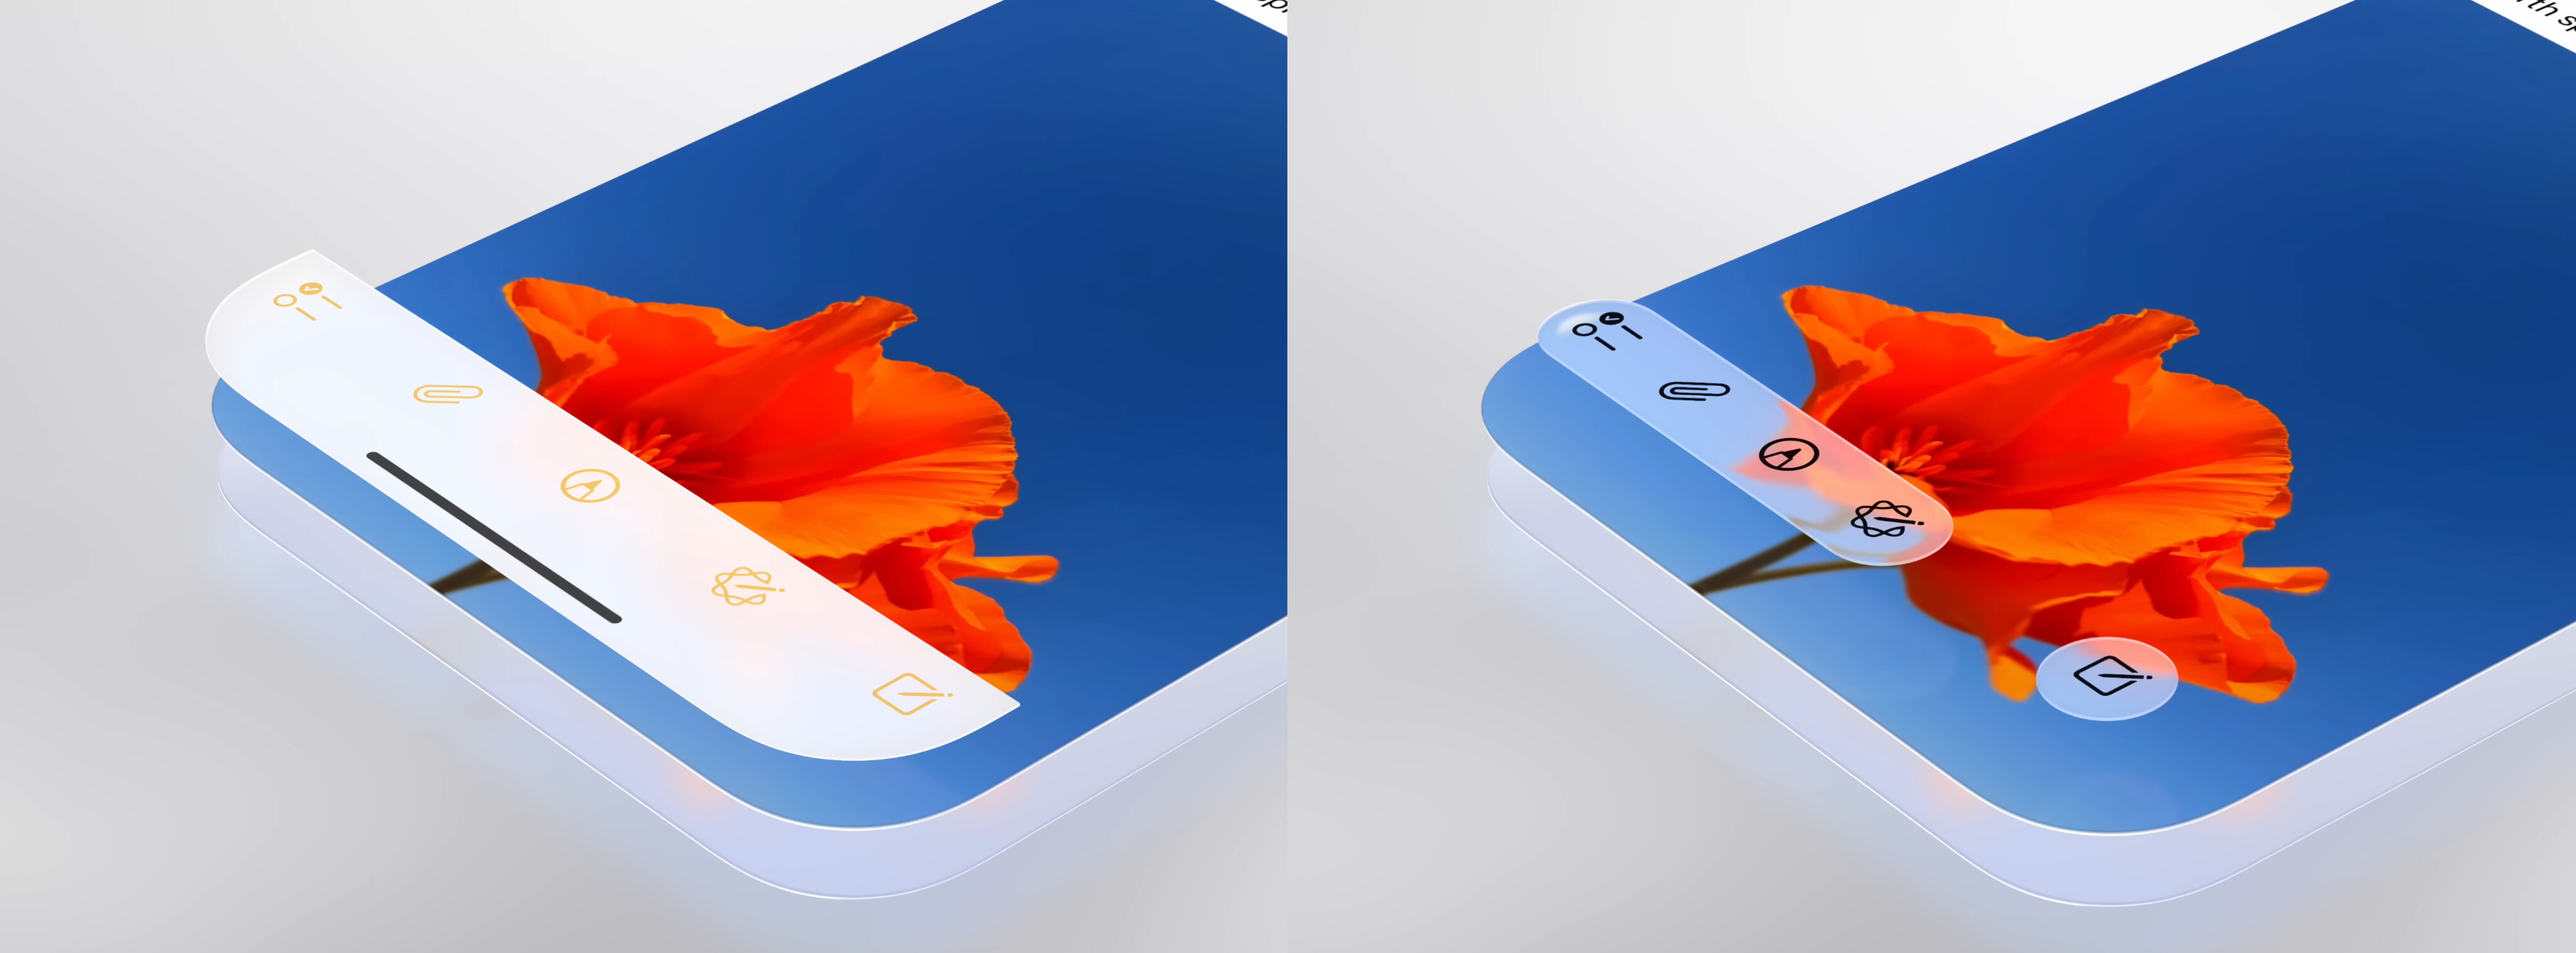
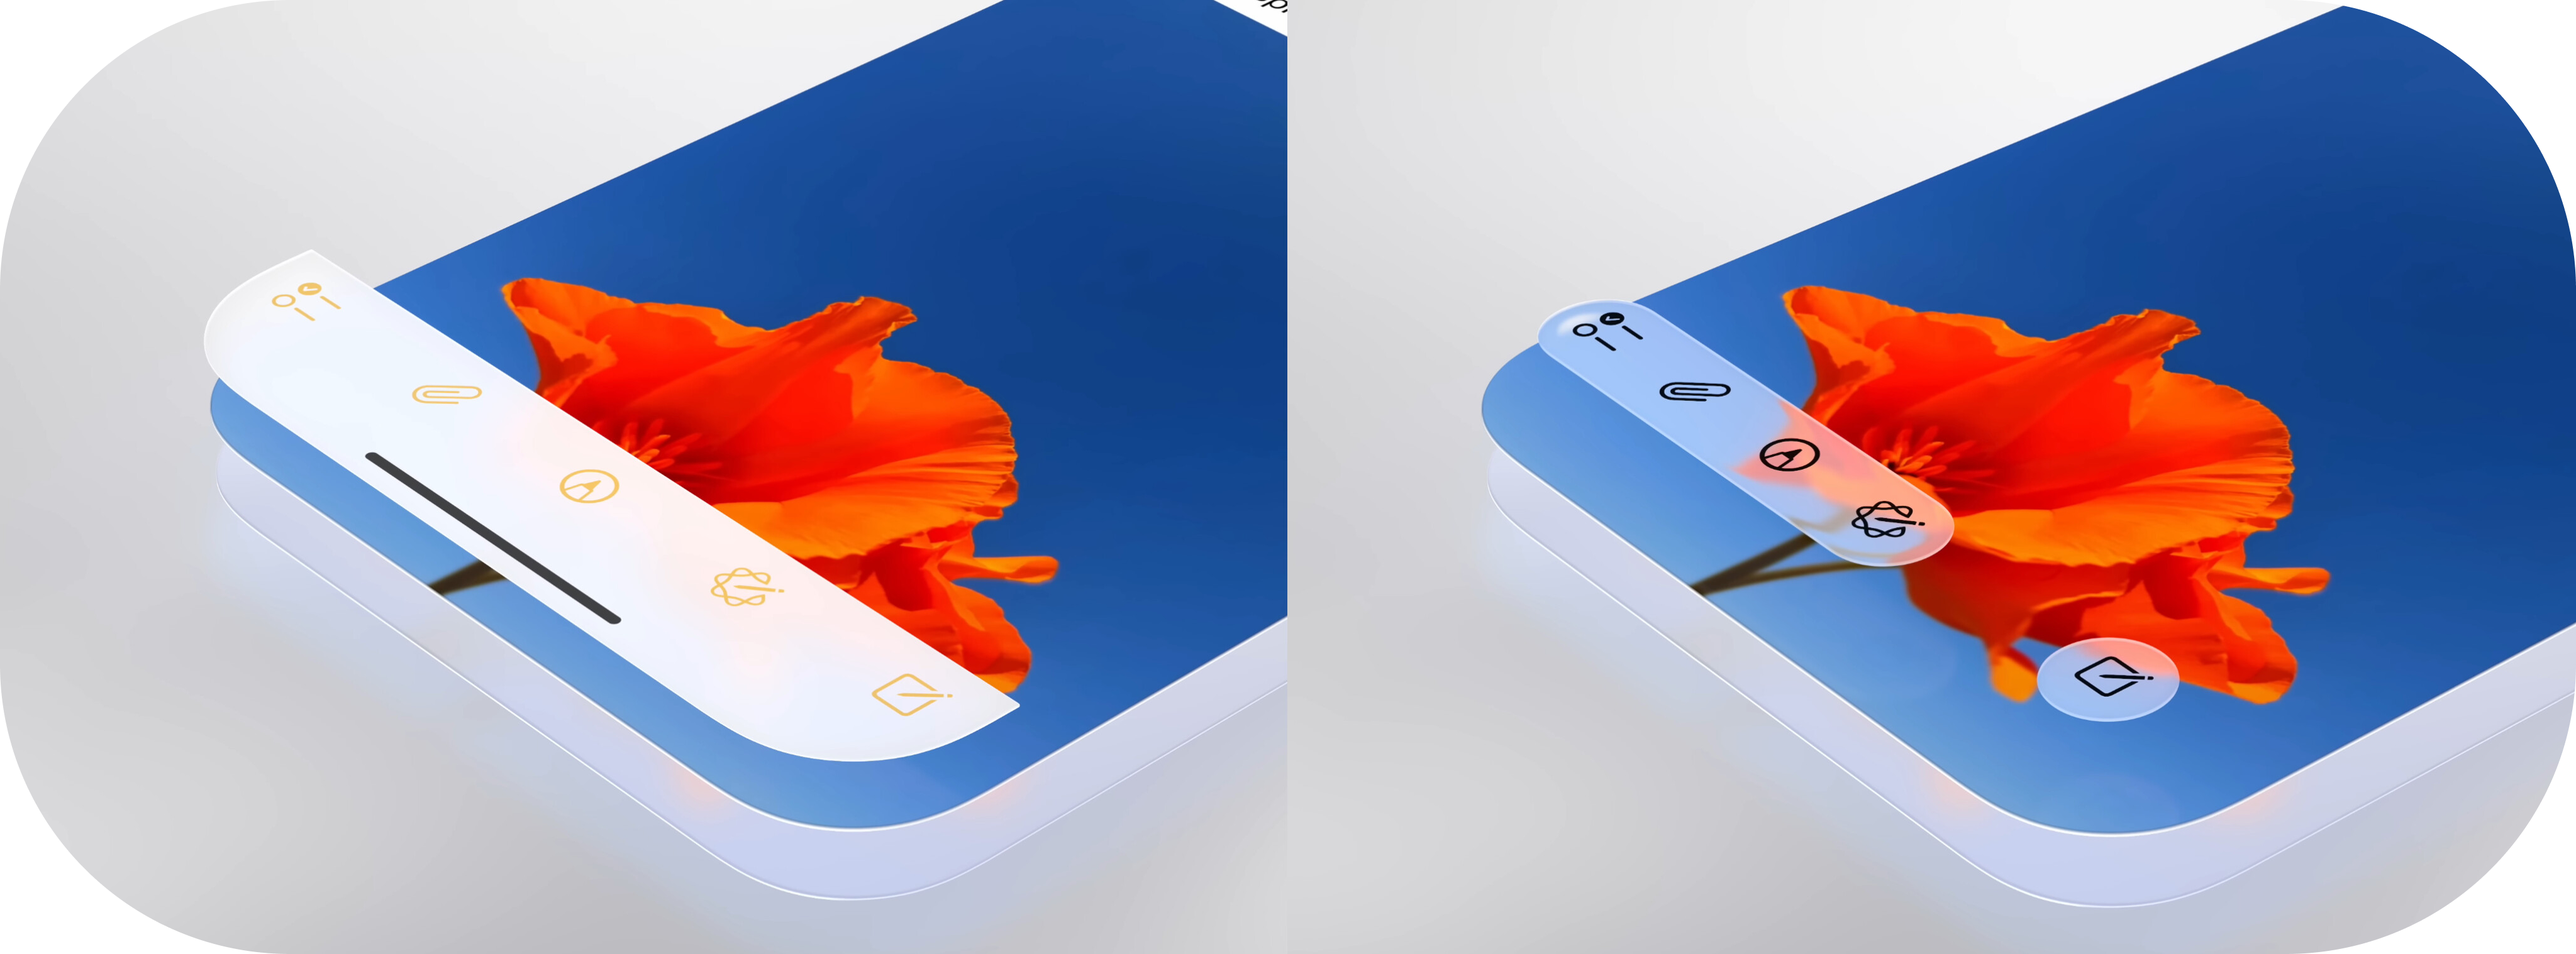
Better images, refined wording
Link the README to the GitBook documentation, refine its project history and wording, and update the iOS 26 and One UI 8 visuals.

diff --git a/README.md b/README.md
@@ -1,6 +1,8 @@
+# [Documentation](https://hishamc24.gitbook.io/mnmlui/)
+
 ![MNMLUI](/ETC/Images/MNMLUI%20Logo%206.4.26.png)
 
-# MNMLUI
+## MNMLUI
 
 A CDN That allows any website to use the Minimal UI software ecosystem.
 
@@ -10,7 +12,7 @@ Import via this one line:
 <script src="https://hishamc24.github.io/MNMLUI/MNMLUI.js"></script>
 ```
 
-If you want just the styling, import that one stylesheet. No longer reccomended since it does NOT have the dynamically adjusting drop shadow:
+If you want just the styling, import that one stylesheet. No longer recommended since it does NOT have the dynamically adjusting drop shadow:
 
 ```html
 <link rel="stylesheet" href="https://hishamc24.github.io/MNMLUI/CSS/Styles.css" />
@@ -28,9 +30,9 @@ Example Components and their usage can be found inside `/HTML/`
 
 ## How did we get here?
 
-MNMLUI Is a unified design language that is meant to bring together the best parts of both iOS(26+) and OneUI(8+) together.
+MNMLUI is a unified design language that is meant to bring together the best parts of both iOS(26+) and OneUI(8+).
 
-Apple introduced Liquid Glass in iOS26, and subtly also changed the design of all buttons and interactable items, having them seperated from the edges of the screen, floating above the main content below the page. All buttons now have their own dedicated spot.
+Apple introduced Liquid Glass in iOS26, and subtly also changed the design of all buttons and interactable items, having them separated from the edges of the screen, floating above the main content below the page. All buttons now have their own dedicated spot.
 
 <img src="./ETC/Images/BeforeAfter%20iOS26.jpg" style="border-radius: 32px; max-width: 100%;" />
 
@@ -44,30 +46,6 @@ iOS26:
 
 And then a thought appeared: "What if I make my own rendition of this floating tab bar design for my own work?" This started the foundation of MNMLUI.
 
-[NewGenUI](https://lightslicergp.github.io/NewGenUI/) is my first test of this, finding the right spacing and designing the tab bar to adapt to multiple items. While it is okay, there is much room to be desired. [The playground within the site](https://lightslicergp.github.io/NewGenUI/TestPlayground/) came later, where the idea of having a simple importable CDN started coming to my mind.
+[NewGenUI](https://lightslicergp.github.io/NewGenUI/) is my first test of this, finding the right spacing and designing the tab bar to adapt to multiple items. While it is okay, there is much room to be desired. [The playground within the site](https://lightslicergp.github.io/NewGenUI/TestPlayground/) came later, where the idea of having a simple importable CDN started coming to mind.
 
-After some time I created MNMLUI, bringing in the code from the NewGenUI Playground to start off, having a useable floating tab bar, and a single .js importable line. Later, I extracted the glassy material styles into its own file if a user only wanted to have just the styles, so they can import a single .css file.
-
-### Styling
-
-MNMLUI starts with a foundation of a metamaterial that many people have seen before: Frosted Glass. With a transluscent color and background blur, the material allows content behind it to be shown through, while being able to host content of its own.
-
-### Section
-
-When having multiple related pages within one site or app, sections should be used to seperate distinct yet related parts of content.
-
-### Tab Bar
-
-A main way to pageify content is to use a tab bar. Where a user will focus on one page at a time, a tab bar allows them to know what section they are in, and what content might be inside.
-
-### Header
-
-To both make reachability for content easier on taller devices, and to give a clear defenition of where the user is, a header can be used at the beginning of a section to account for both.
-
-### Button
-
-For most glassy componenets, a button component would be used. Either to hold one icon depicting what action clicking that will do, or multiple to group related actions together in a unified space that can easily be found. Usually, accompanied by putting button(s) into the top left, top right, bottom left, or bottom right corners of the viewport.
-
-### Card
-
-To contain and group content in a section, cards are used. Usually to hold interactable components, text, or even images.
+After some time, I created MNMLUI, bringing in the code from the NewGenUI Playground to start off, having a usable floating tab bar, and a single importable .js line. Later, I extracted the glassy material styles into its own file if a user only wanted to have just the styles, so they can import a single .css file.
